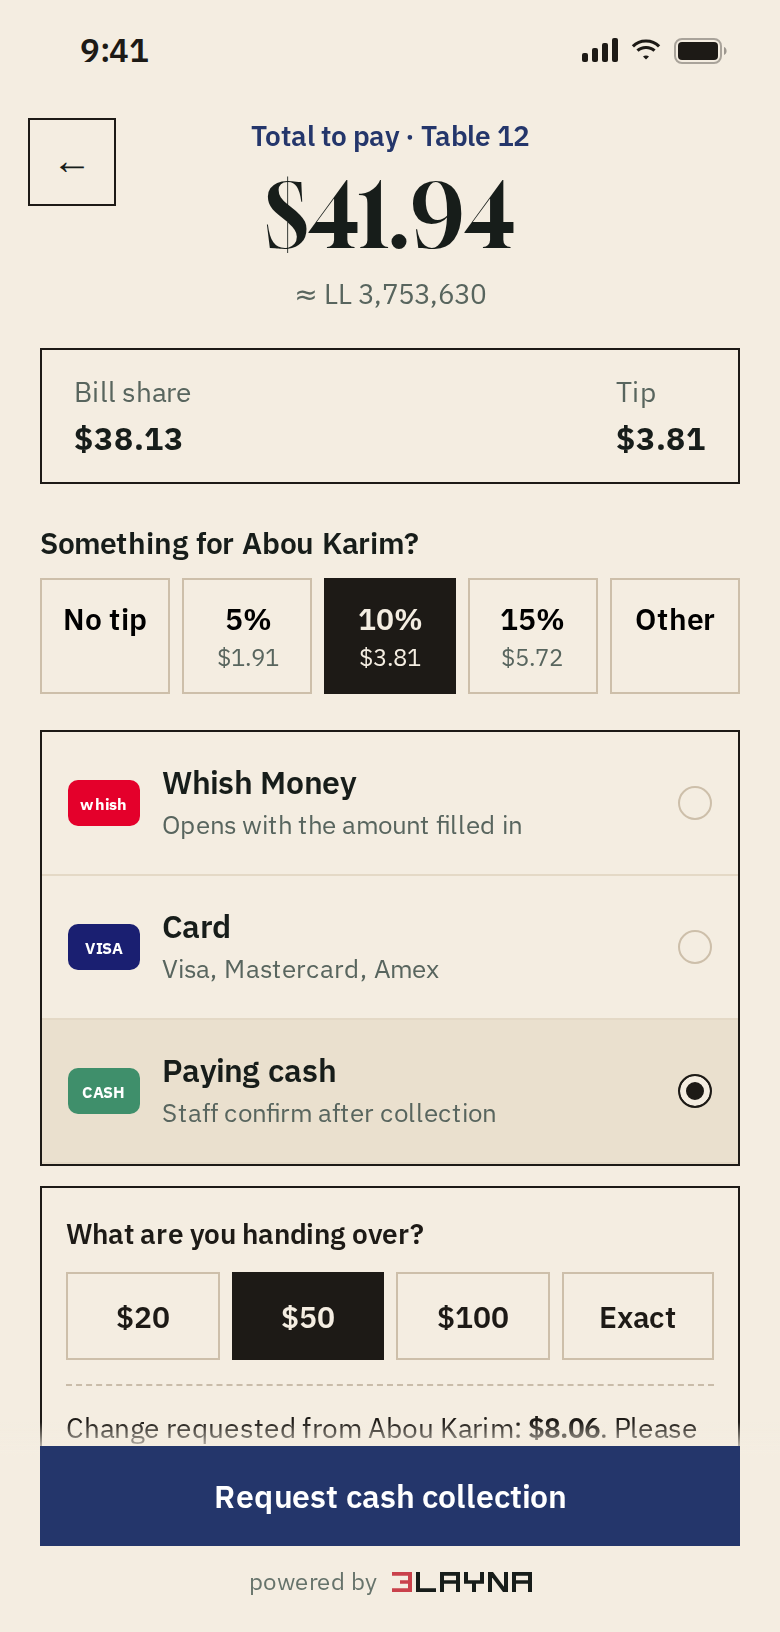
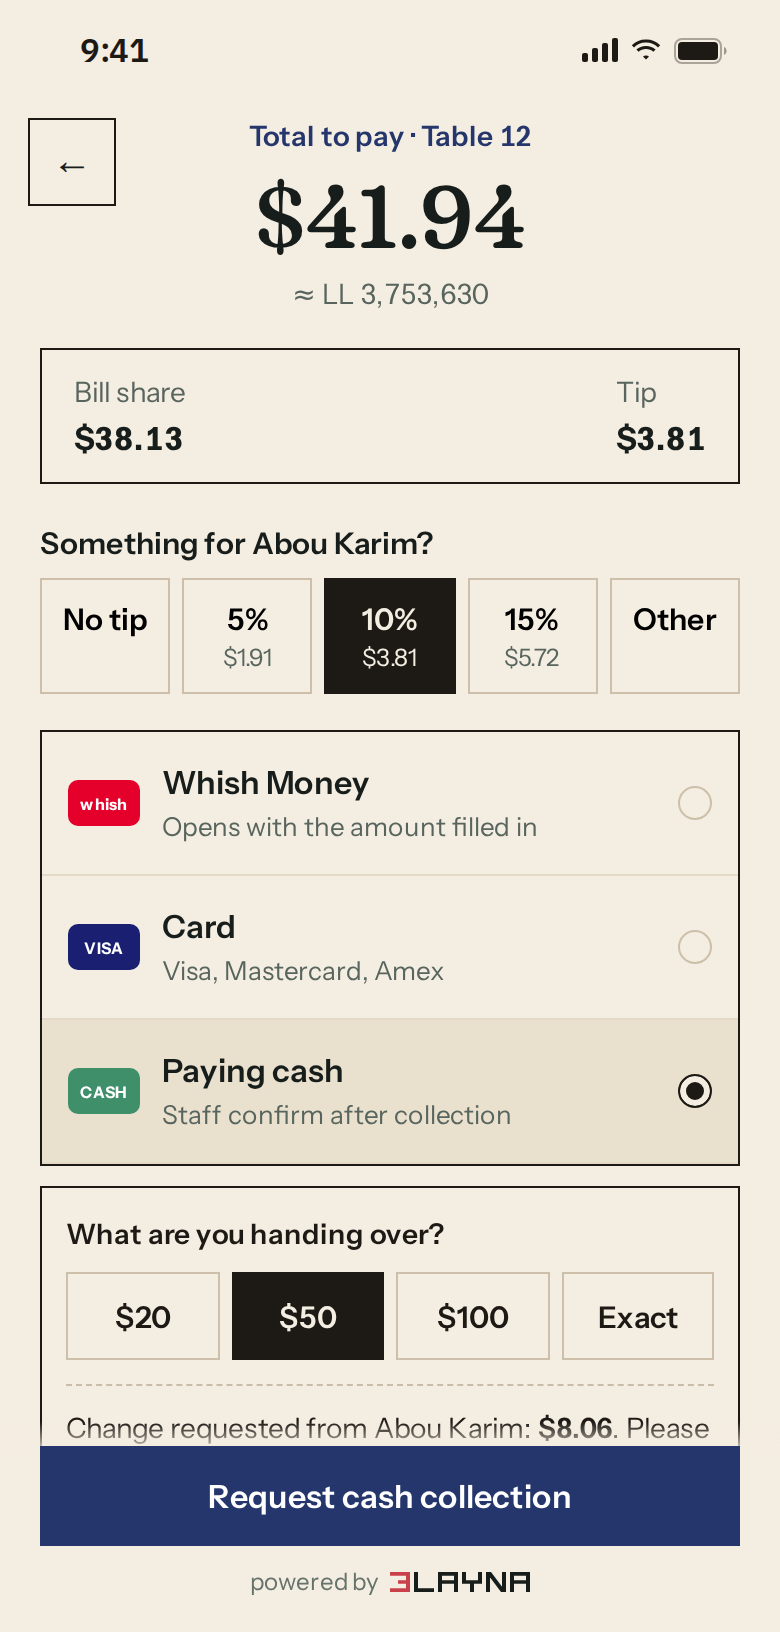
Balat type: soft Fraunces for names and figures, Instrument Sans for the rest
Gloock (a condensed display serif) with IBM Plex Sans read stiff for a tile menu.
Names, headings and the bill's figures now set in Fraunces, its soft cut only
(SOFT 100, WONK 0, weight 520; the store asks Google Fonts for exactly that, 18 to
62 kB); everything else in Instrument Sans, the tile concept's own sans. Arabic
keeps Reem Kufi for names and falls back to IBM Plex Sans Arabic in text.
aalayna-store.js?v=23 on every page that loads it. The website's guest shots and
share image are retaken in the new type.

Claude-Session: https://claude.ai/code/session_017mwzzhaL33iJSnVf4TVPSv

diff --git a/guest.html b/guest.html
@@ -600,10 +600,12 @@
   .b-title{font-size:23px;line-height:1.3}.b-sub{font-size:14px;margin-top:5px}.r-crest{font-size:12px;letter-spacing:.1em}.r-item{font-size:15px;line-height:1.45;padding:13px 0}.r-item .q{font-size:14px}.r-item .p{white-space:nowrap}.r-total .l{font-size:12px;letter-spacing:.04em}.r-total .a{font-size:28px}.r-ll{font-size:14px}.billpill{font-size:15px;min-height:48px}
   /* ---------- Balat (?theme=balat): the Beirut cement-tile menu ----------
      The landing and the menu only: a band of tiles above the restaurant's name, a tile per section in the tabs
-     and beside each dish, Gloock for names and Reem Kufi for the Arabic, square corners on bone paper. The four
+     and beside each dish, soft Fraunces for names and figures, Instrument Sans for the rest and Reem Kufi for the
+     Arabic, square corners on bone paper. The four
      pigments are --tile-t/o/s/i, set by the store from the restaurant's brand (aalayna-store.js, balatPalette);
      each tile pattern is drawn in CSS, so any colours re-skin it. */
   html.theme-balat{--bone:#F4EDE1;--balat-ink:#1D1A16;--balat-line:#C9BCA9;--tile-t:#B5502C;--tile-o:#D39B2A;--tile-s:#6F9A83;--tile-i:#24366B}
+  html.theme-balat body{font-family:'Instrument Sans','IBM Plex Sans Arabic',system-ui,sans-serif}
   .theme-balat .tile{display:block;flex-shrink:0}
   .theme-balat .tile.k0{background:radial-gradient(circle at 50% 0,var(--tile-s) 0 25%,transparent 25.6%),radial-gradient(circle at 50% 100%,var(--tile-s) 0 25%,transparent 25.6%),radial-gradient(circle at 0 50%,var(--tile-s) 0 25%,transparent 25.6%),radial-gradient(circle at 100% 50%,var(--tile-s) 0 25%,transparent 25.6%),radial-gradient(circle at 50% 50%,var(--tile-t) 0 12%,transparent 12.6%),var(--bone)}
   .theme-balat .tile.k1{background:radial-gradient(circle at 50% 50%,var(--tile-o) 0 13%,transparent 13.6%),radial-gradient(circle at 0 0,var(--bone) 0 30%,transparent 30.6%),radial-gradient(circle at 100% 0,var(--bone) 0 30%,transparent 30.6%),radial-gradient(circle at 0 100%,var(--bone) 0 30%,transparent 30.6%),radial-gradient(circle at 100% 100%,var(--bone) 0 30%,transparent 30.6%),var(--tile-i)}
@@ -618,26 +620,26 @@
   .theme-balat .tile-band{display:grid;grid-template-columns:repeat(6,minmax(0,1fr));gap:2px}
   .theme-balat .tile-band .tile{aspect-ratio:1/1}
   .theme-balat #v-land .crest{position:relative;left:auto;top:auto;transform:none;width:auto;margin:-42px 18px 0;padding:16px 18px 14px;background:var(--bone);border:1.5px solid var(--balat-ink);border-radius:0;color:var(--balat-ink);text-align:start;display:flex;flex-direction:column;gap:6px}
-  .theme-balat .crest .name{order:-1;font-family:'Gloock','Reem Kufi',Georgia,serif;font-weight:400;font-size:40px;line-height:1;color:var(--balat-ink)}
+  .theme-balat .crest .name{order:-1;font-family:'Fraunces','Reem Kufi',Georgia,serif;font-weight:520;font-variation-settings:'SOFT' 100,'WONK' 0;font-size:40px;line-height:1;color:var(--balat-ink)}
   .theme-balat .crest .est{margin:0;font-size:11px;letter-spacing:.14em;color:var(--sub)}
   .theme-balat .crest .place{margin:0;font-size:14px;color:var(--sub)}
   .theme-balat .crest .rule{display:none}
-  .theme-balat .greet{font-family:'Gloock','Reem Kufi',Georgia,serif;font-weight:400}
+  .theme-balat .greet{font-family:'Fraunces','Reem Kufi',Georgia,serif;font-weight:520;font-variation-settings:'SOFT' 100,'WONK' 0}
   .theme-balat .tbl{border-radius:0;background:transparent;border:1px solid var(--balat-ink);color:var(--balat-ink)}
-  .theme-balat .m-head .vn{font-family:'Gloock','Reem Kufi',Georgia,serif;font-weight:400;font-size:26px}
+  .theme-balat .m-head .vn{font-family:'Fraunces','Reem Kufi',Georgia,serif;font-weight:520;font-variation-settings:'SOFT' 100,'WONK' 0;font-size:26px}
   .theme-balat .cats{gap:12px;padding:14px 20px 6px}
   .theme-balat .cat{display:flex;flex-direction:column;align-items:center;gap:7px;min-width:64px;max-width:88px;padding:4px 0 6px;font-size:12px;line-height:1.25;text-align:center;white-space:normal;color:var(--sub)}
   .theme-balat .cat .tile{width:44px;height:44px;transition:box-shadow .2s var(--ease)}
   .theme-balat .cat.on{color:var(--balat-ink)}
   .theme-balat .cat.on .tile{box-shadow:0 0 0 3px var(--bone),0 0 0 5px var(--balat-ink)}
   .theme-balat #ink{display:none}
-  .theme-balat .sect-h{justify-content:space-between;align-items:baseline;margin:0 20px;padding:22px 0 8px;background:transparent;border-bottom:1.5px solid var(--balat-ink);font-family:'Gloock','Reem Kufi',Georgia,serif;font-weight:400;font-size:24px;letter-spacing:0;text-transform:none;color:var(--balat-ink)}
+  .theme-balat .sect-h{justify-content:space-between;align-items:baseline;margin:0 20px;padding:22px 0 8px;background:transparent;border-bottom:1.5px solid var(--balat-ink);font-family:'Fraunces','Reem Kufi',Georgia,serif;font-weight:520;font-variation-settings:'SOFT' 100,'WONK' 0;font-size:24px;letter-spacing:0;text-transform:none;color:var(--balat-ink)}
   .theme-balat .sect-h::after{content:none}
   .theme-balat .sect-ar{font-family:'Reem Kufi','IBM Plex Sans Arabic',sans-serif;font-size:17px;color:var(--sub)}
   .theme-balat .mi{align-items:center;margin:0 20px;padding:14px 0;border-bottom:1px dashed var(--balat-line)}
   .theme-balat .mi:hover{background:transparent}
   .theme-balat .mi .dish-tile{width:40px;height:40px}
-  .theme-balat .mi .mn{font-family:'Gloock','Reem Kufi',Georgia,serif;font-weight:400;font-size:18px;line-height:1.2}
+  .theme-balat .mi .mn{font-family:'Fraunces','Reem Kufi',Georgia,serif;font-weight:520;font-variation-settings:'SOFT' 100,'WONK' 0;font-size:18px;line-height:1.2}
   .theme-balat .mi .mp{padding:4px 8px;border:1.5px solid var(--balat-ink);font-size:15px}
   .theme-balat .details-arrow{display:none}
   /* under the name, its Arabic name (in Arabic, the name the menu was written with); the description opens with the dish */
@@ -672,10 +674,10 @@
   @media (prefers-reduced-motion:reduce){.theme-balat .idet.inline{animation:none}}
 
   /* Balat through the whole visit: the bill, the split, the payment, the thank-you and the review keep the tiles'
-     bone paper, ink rules, square corners and Gloock figures; a choice, once made, is filled in ink. */
+     bone paper, ink rules, square corners and Fraunces figures; a choice, once made, is filled in ink. */
   html.theme-balat{--surface:var(--bone);--bg:#EAE0CE;--line:#CDBFAA;--line-soft:#E4D9C6;--hair:#CDBFAA;--paper:var(--bone);--ivory:var(--bone)}
   .theme-balat :is(.cta,.sheet,.alrt,.pays,.tipb,.seg,.seg button,.chip,.receipt,.rcpt,.mailin,.mailbtn,.pay-breakdown,.share,.stp button,.sb,.fc,.fbar,.picklist,.amtbox,.tipcw,.cashnote,.chg,.review-close,.ta,.back,.sel select,.fbtn,.billpill,.tbl){border-radius:0}
-  .theme-balat :is(.b-title,.amt .big,.share .v,.r-total .a,.sh-t,.shukran,.rc-amt){font-family:'Gloock','Reem Kufi',Georgia,serif;font-weight:400;letter-spacing:0}
+  .theme-balat :is(.b-title,.amt .big,.share .v,.r-total .a,.sh-t,.shukran,.rc-amt){font-family:'Fraunces','Reem Kufi',Georgia,serif;font-weight:520;font-variation-settings:'SOFT' 100,'WONK' 0;letter-spacing:0}
   .theme-balat .back,.theme-balat .sel select,.theme-balat .fbtn,.theme-balat .review-close{border:1.5px solid var(--balat-ink)}
   .theme-balat .receipt{border:1.5px solid var(--balat-ink);background:var(--bone)}
   .theme-balat .receipt::before{content:'';display:block;height:18px;margin:-13px -16px 12px;background:radial-gradient(circle at 50% 50%,var(--tile-o) 0 13%,transparent 13.6%),radial-gradient(circle at 0 0,var(--bone) 0 30%,transparent 30.6%),radial-gradient(circle at 100% 0,var(--bone) 0 30%,transparent 30.6%),radial-gradient(circle at 0 100%,var(--bone) 0 30%,transparent 30.6%),radial-gradient(circle at 100% 100%,var(--bone) 0 30%,transparent 30.6%),var(--tile-i);background-size:18px 18px}
@@ -1081,7 +1083,7 @@
   a private note to the restaurant; either guest can take the other route. Cash
   requests remain pending until confirmed in the staff demo. This demo shares data between tabs in this browser only.
 </div>
-<script src="aalayna-store.js?v=22"></script>
+<script src="aalayna-store.js?v=23"></script>
 <script src="restaurant-growth.js?v=6"></script>
 <script src="aalayna-config.js"></script>
 <script>

diff --git a/aalayna-store.js b/aalayna-store.js
@@ -962,7 +962,7 @@
         if (!global.document.getElementById('balat-font')) {
           var bl = global.document.createElement('link');
           bl.id = 'balat-font'; bl.rel = 'stylesheet';
-          bl.href = 'https://fonts.googleapis.com/css2?family=Gloock&family=Reem+Kufi:wght@400;600&display=swap';
+          bl.href = 'https://fonts.googleapis.com/css2?family=Fraunces:opsz,wght,SOFT,WONK@9..144,400..700,100,0&family=Instrument+Sans:wght@400;500;600;700&family=Reem+Kufi:wght@400;600&display=swap';
           global.document.head.appendChild(bl);
         }
       }

diff --git a/admin.html b/admin.html
@@ -11,7 +11,7 @@
 <link rel="icon" href="brand/icons/icon-32.png" sizes="32x32">
 <link rel="icon" href="brand/svg/3layna/icon.svg" type="image/svg+xml">
 <link rel="apple-touch-icon" href="brand/icons/icon-180.png">
-<script src="aalayna-store.js?v=22"></script>
+<script src="aalayna-store.js?v=23"></script>
 <script src="restaurant-growth.js?v=6"></script>
 <script src="owner-metrics.js?v=7"></script>
 <script src="aalayna-config.js"></script>

diff --git a/dashboard.html b/dashboard.html
@@ -11,7 +11,7 @@
 <link rel="icon" href="brand/icons/icon-32.png" sizes="32x32">
 <link rel="icon" href="brand/svg/3layna/icon.svg" type="image/svg+xml">
 <link rel="apple-touch-icon" href="brand/icons/icon-180.png">
-<script src="aalayna-store.js?v=22"></script>
+<script src="aalayna-store.js?v=23"></script>
 <script src="restaurant-growth.js?v=6"></script>
 <script src="owner-metrics.js?v=7"></script>
 <script src="aalayna-config.js"></script>

diff --git a/editor.html b/editor.html
@@ -530,7 +530,7 @@
   breakfast at 11:30"), so the window sits on the section. Outside its hours a section is not on
   the guest's menu at all. Bulk repricing keeps menu updates quick when ingredient costs change.
 </div>
-<script src="aalayna-store.js?v=22"></script>
+<script src="aalayna-store.js?v=23"></script>
 <script src="aalayna-config.js"></script>
 <script src="aalayna-sync.js?v=6"></script>
 <!-- ==== T4 staff sign-in: start ==== -->

diff --git a/system.html b/system.html
@@ -11,7 +11,7 @@
 <link rel="icon" href="brand/icons/icon-32.png" sizes="32x32">
 <link rel="icon" href="brand/svg/3layna/icon.svg" type="image/svg+xml">
 <link rel="apple-touch-icon" href="brand/icons/icon-180.png">
-<script src="aalayna-store.js?v=22"></script>
+<script src="aalayna-store.js?v=23"></script>
 <style>
   /* The salesperson's hub: Aalayna's own chrome, on the brand (cream, ink, red, petrol; square corners). */
   :root{
